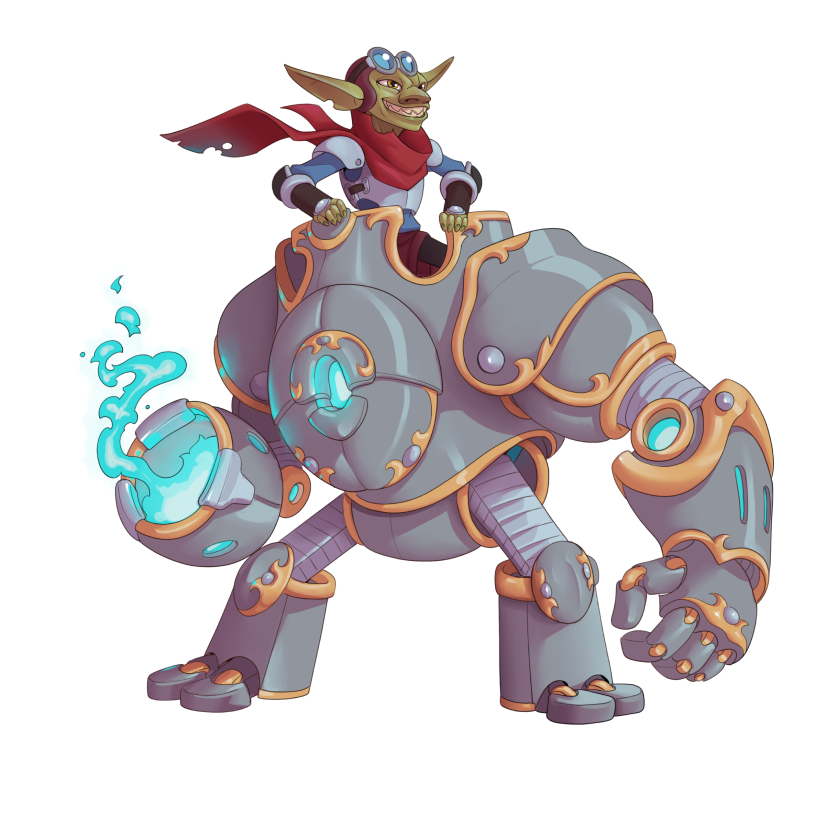
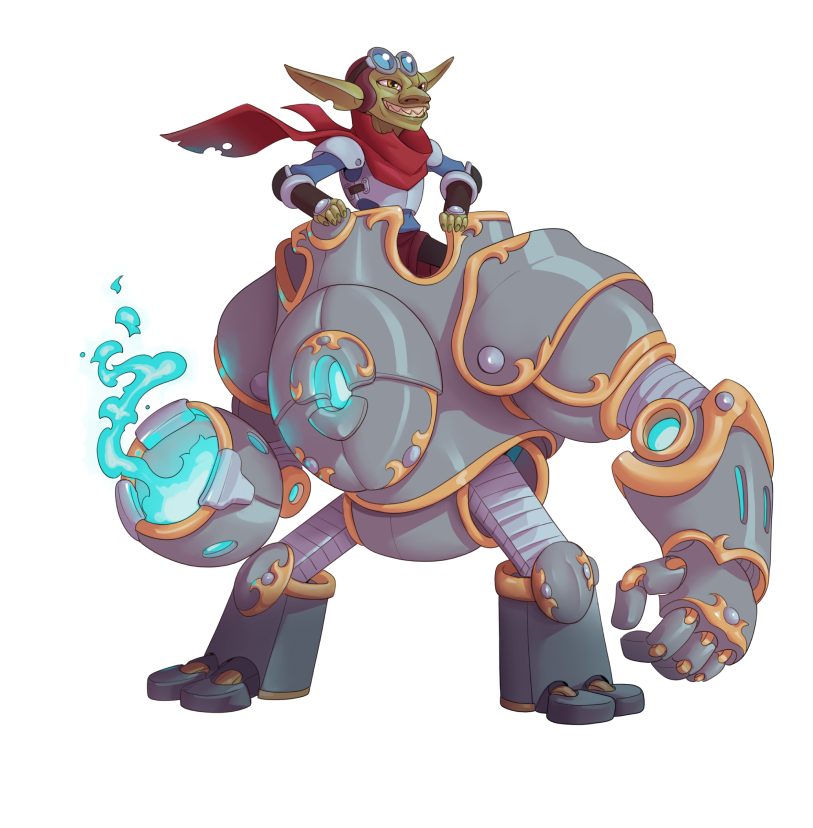
fix: hero images with shadows

Changed region(s): [[0.615, 0.6944, 0.861, 0.8756], [0.1845, 0.6944, 0.4305, 0.8756]]

diff --git a/src/components/sections/MainInfo/MainInfo.tsx b/src/components/sections/MainInfo/MainInfo.tsx
@@ -41,13 +41,13 @@ const MainInfo = () => {
                 <img src="/main/character2.png" className="animate-levitate mx-auto right-0 left-0 my-auto -top-2 bottom-0" />
               </picture>
             </div>
-            <div className="relative z-20 -mt-2 sm:-mt-20 flex justify-center">
+            <div className="relative z-20 -mt-2 sm:-mt-20 sm:top-3 flex justify-center">
               <picture >
                 <source media="(max-width: 768px)" srcSet="/main/character1M.png" />
                 <source media="(max-width: 1921px)" srcSet="/main/character1.png" />
                 <source media="(min-width: 1921px)" srcSet="/main/character1B.png" />
                 <img src="/main/character1.png"
-                  className="animate-levitate3 mx-auto right-0 left-0 my-auto -top-2 sm:-top-4 bottom-0" />
+                  className="animate-levitate3 mx-auto right-0 left-0 my-auto -top-2 bottom-0" />
               </picture>
             </div>
             <div className="relative -ml-20 sm:-ml-24 md:-ml-28 z-10 -mt-10 sm:-mt-16 md:-mt-20 flex justify-center">
